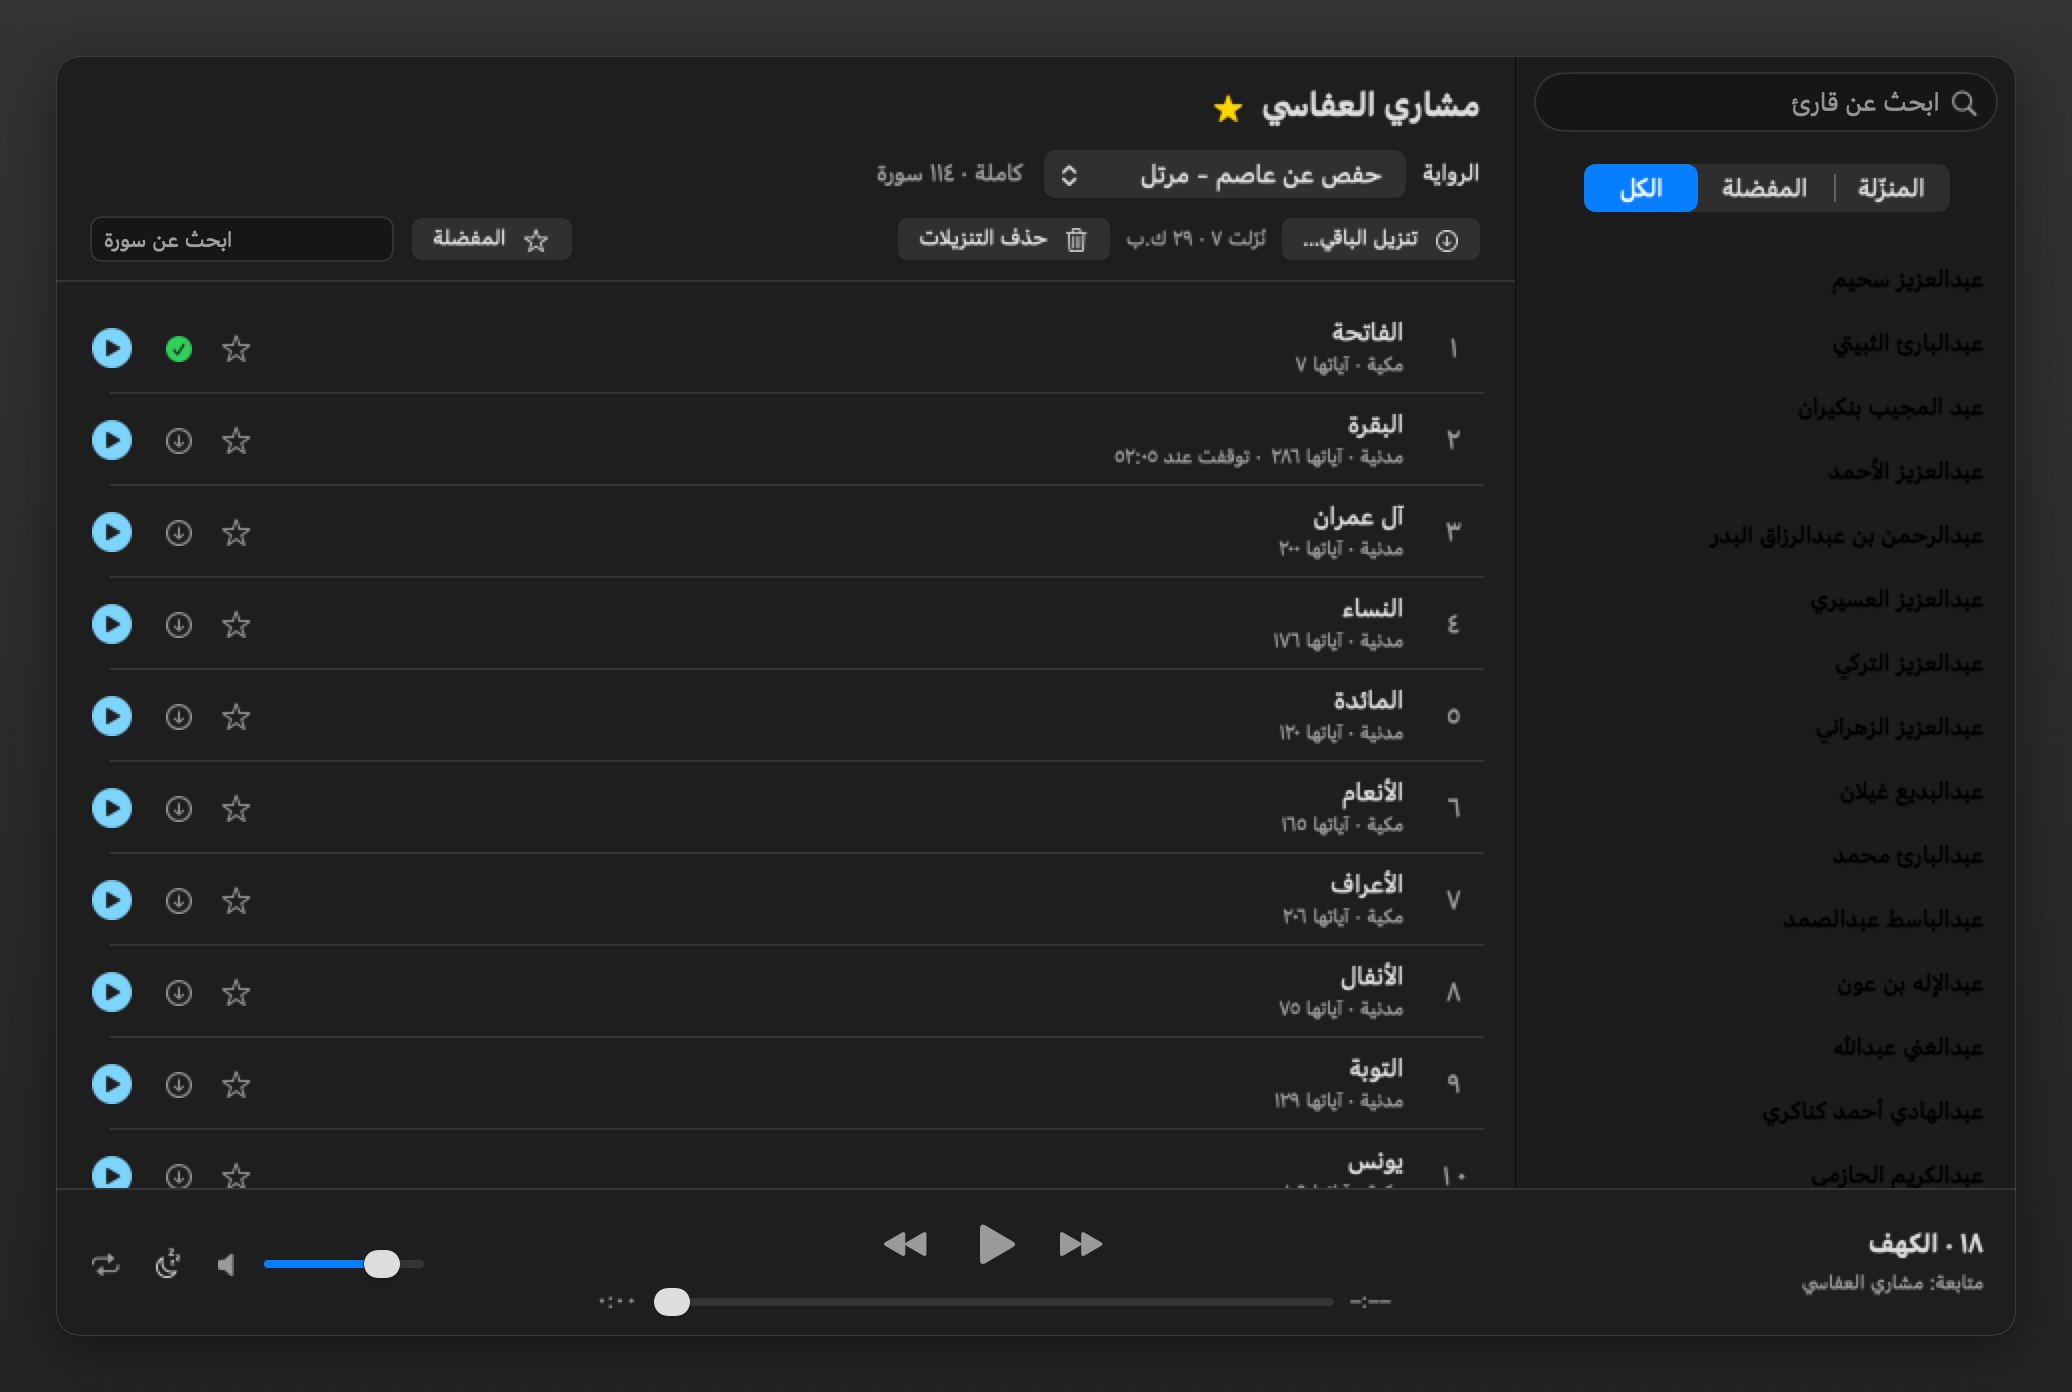
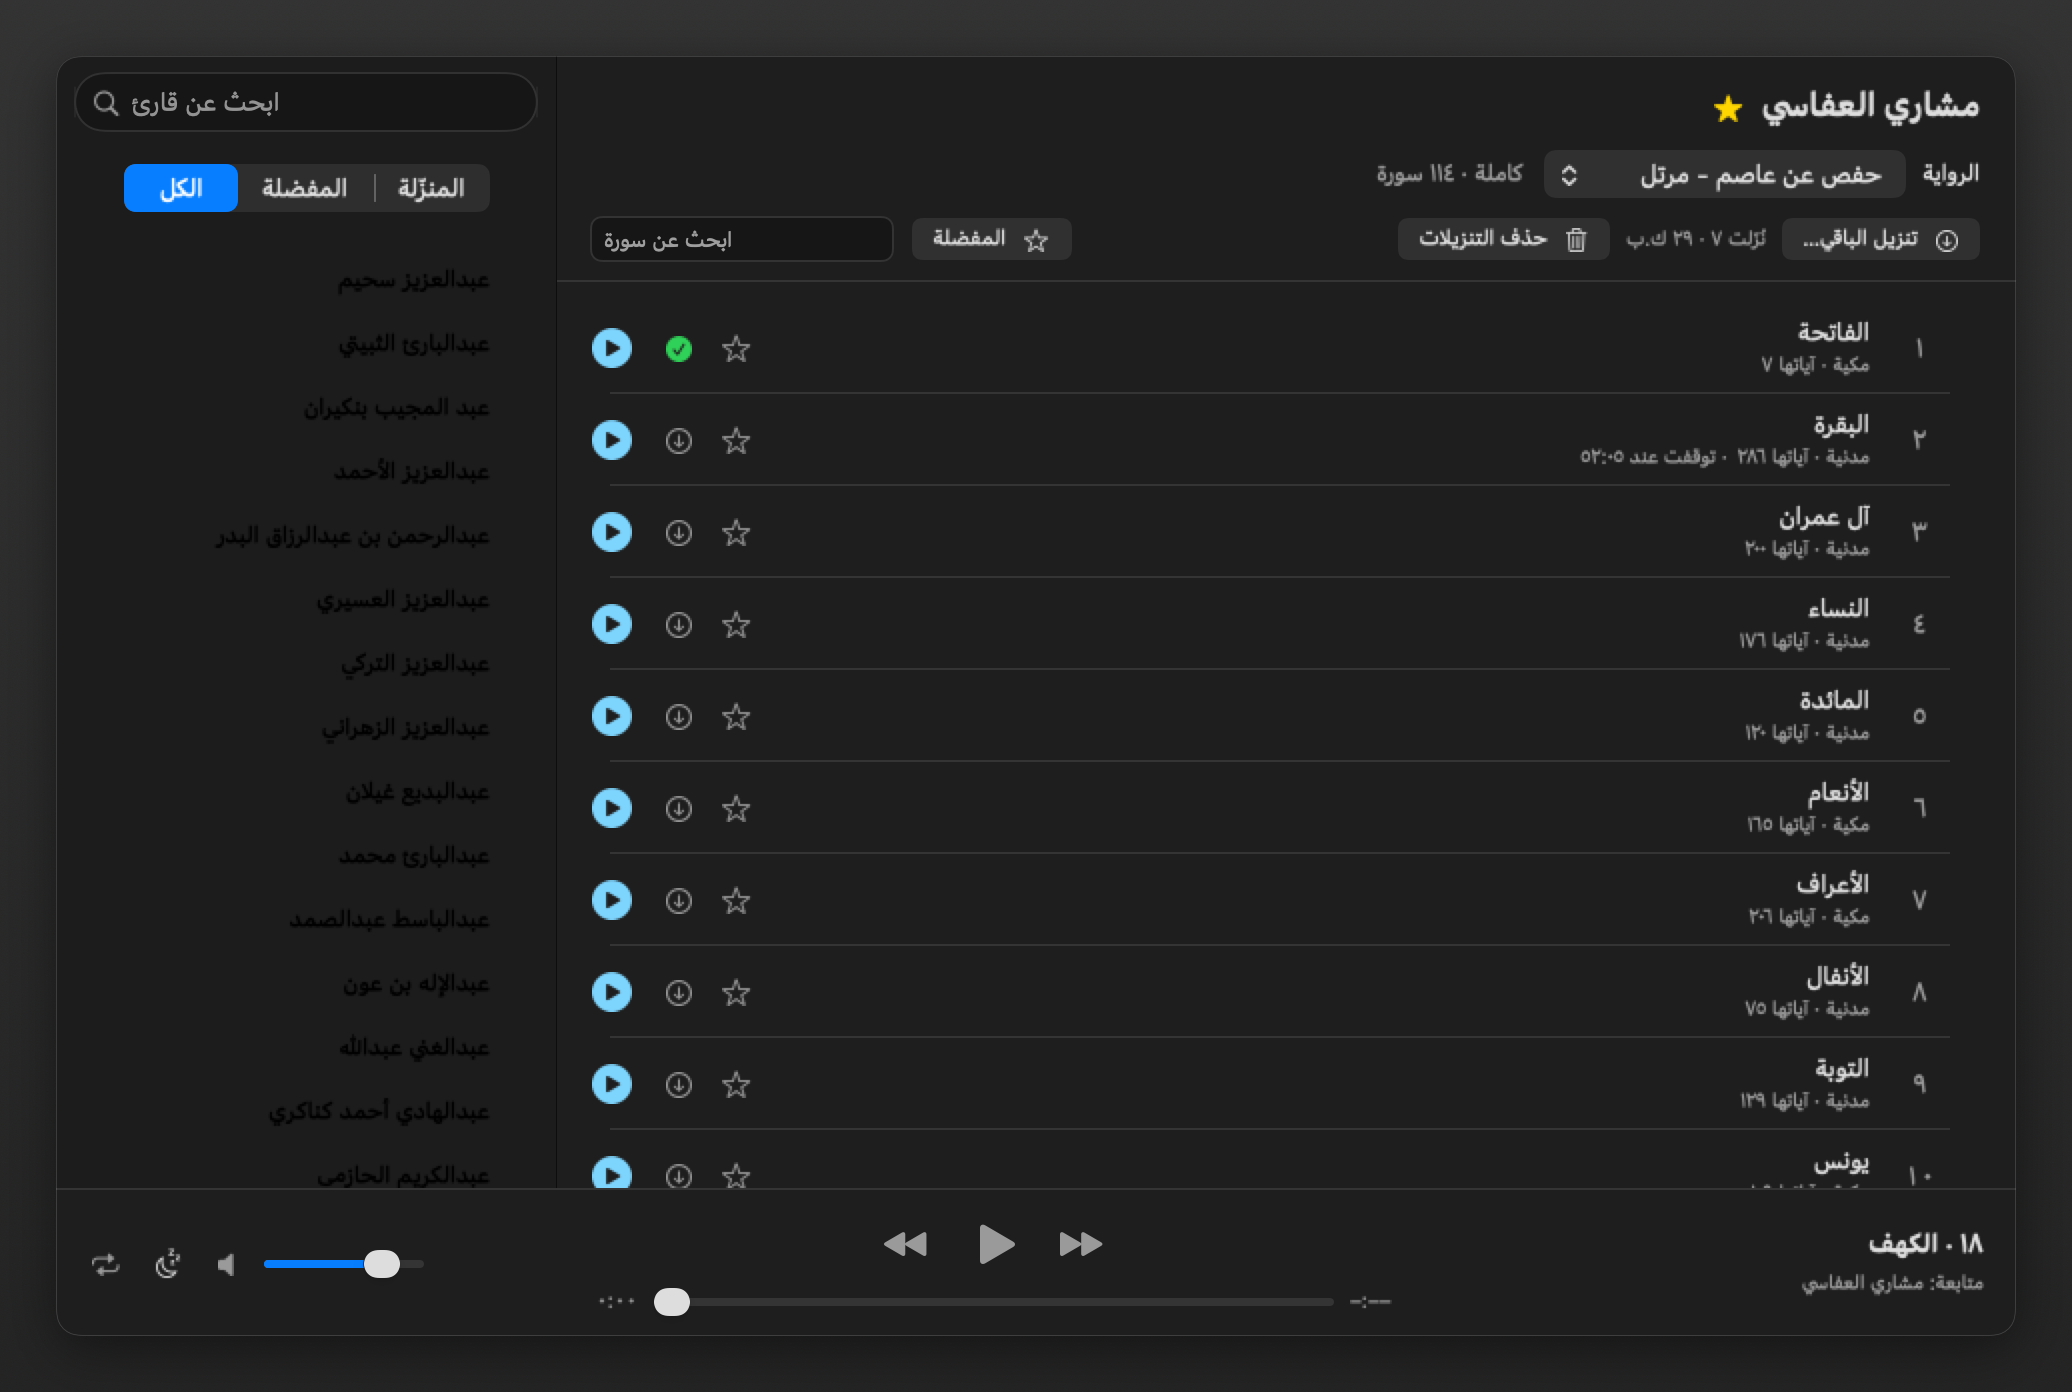
Release 2.21.0

diff --git a/README.md b/README.md
@@ -763,7 +763,7 @@ On first launch, a short tour sets Salah Bar up with you, one step at a time:
 4. **Notifications and the adhan**: allow reminders, and listen to the adhan.
 5. **The menu bar**: where to find the countdown and what the panel shows.
 6. **Make it yours**: a switch for each optional feature: Sunnah prayer tracking,
-   "Did you pray?" reminders, dhikr cards, the Friday Al-Kahf and Sunnah fast reminders,
+   "Did you pray?" reminders, dhikr cards, the morning and evening adhkar, the Friday Al-Kahf and Sunnah fast reminders,
    the flash before the adhan, quiet in calls, and the Ramadan companion. Links open
    the iqama and calendar settings.
 7. **Listen and remember**: the Quran and the Duas, each with a button to open it.
@@ -967,8 +967,12 @@ stays until you close it). **✓ Read** closes it and counts it for the day, and
 
 - **When:** every 10 minutes to 12 hours between the hours you pick (9:00–21:00 by
   default), or at times you set. Never within 10 minutes of a prayer.
-- **Morning and evening adhkar:** half an hour after Fajr and after Asr, one of the
-  morning or evening adhkar, such as Sayyid al-Istighfar.
+- **Morning and evening adhkar** (a reminder of its own, with or without the other
+  cards: **Settings → Adhkar → Morning and evening adhkar**): half an hour after Fajr
+  and after Asr, a card with one of the morning or evening adhkar, such as Sayyid
+  al-Istighfar. It asks whether to **recite them all aloud**; only if you accept, it
+  plays Hisn al-Muslim's 24 recordings one after another and opens them in the Duas
+  window to read along.
 - **Not during meetings:** no card while a calendar event is on, in a call, with the
   camera or microphone in use, or with Focus on. It waits until you're free.
 
